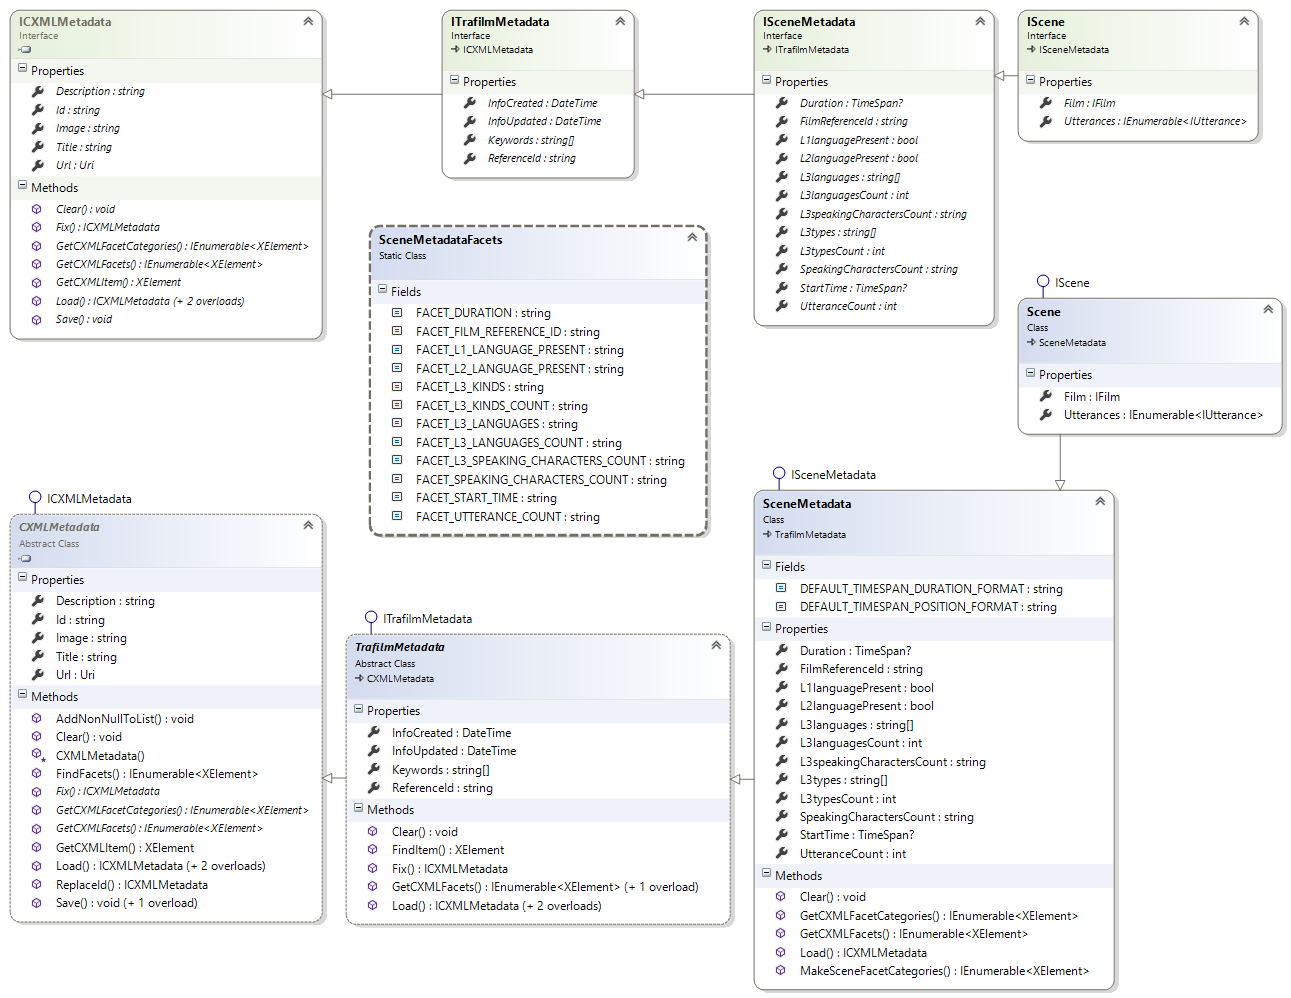
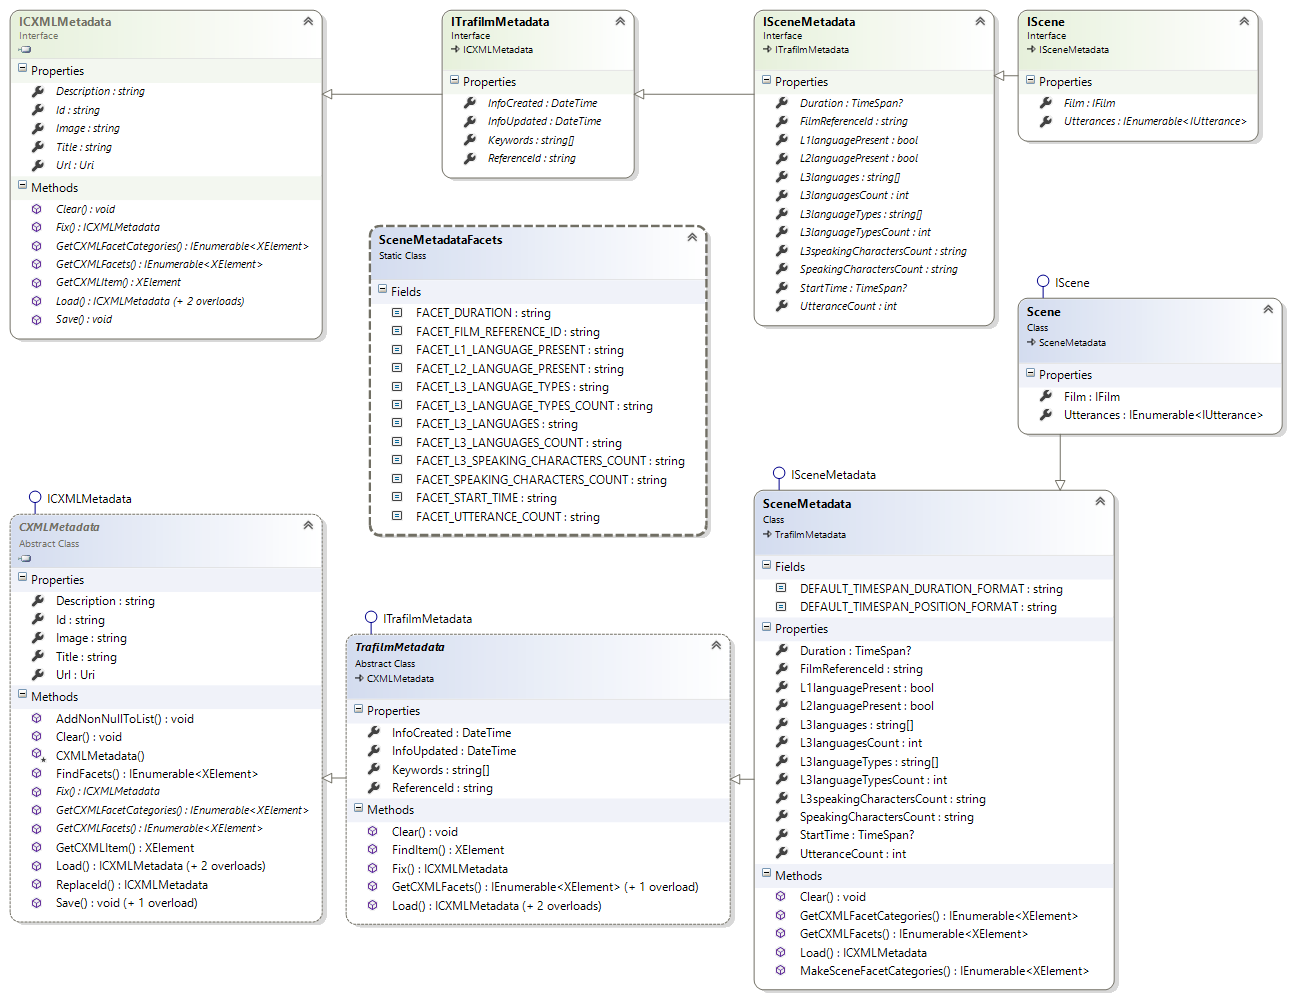
- Updated Scene model/facets/object - Updated Nuget package version - Updated Diagrams

Changed region(s): [[0.6197, 0.1864, 0.7436, 0.2796], [0.6197, 0.7455, 0.7746, 0.8076], [0.3718, 0.3727, 0.4957, 0.4349]]

diff --git a/Metadata/Scene/SceneMetadata.cs b/Metadata/Scene/SceneMetadata.cs
@@ -40,8 +40,8 @@ namespace Trafilm.Metadata
     public int L3languagesCount { get; set; }
     public string[] L3languages { get; set; }
 
-    public int L3typesCount { get; set; }
-    public string[] L3types { get; set; }
+    public int L3languageTypesCount { get; set; }
+    public string[] L3languageTypes { get; set; }
 
     public int UtteranceCount { get; set; }
 
@@ -67,8 +67,8 @@ namespace Trafilm.Metadata
       L3languagesCount = 0;
       L3languages = new string[] { };
 
-      L3typesCount = 0;
-      L3types = new string[] { };
+      L3languageTypesCount = 0;
+      L3languageTypes = new string[] { };
 
       UtteranceCount = 0;
     }
@@ -93,8 +93,8 @@ namespace Trafilm.Metadata
       L3languagesCount = int.Parse(facets.CXMLFacetStringValue(SceneMetadataFacets.FACET_L3_LANGUAGES_COUNT));
       L3languages = facets.CXMLFacetStringValues(SceneMetadataFacets.FACET_L3_LANGUAGES);
 
-      L3typesCount = int.Parse(facets.CXMLFacetStringValue(SceneMetadataFacets.FACET_L3_KINDS_COUNT));
-      L3types = facets.CXMLFacetStringValues(SceneMetadataFacets.FACET_L3_KINDS);
+      L3languageTypesCount = int.Parse(facets.CXMLFacetStringValue(SceneMetadataFacets.FACET_L3_LANGUAGE_TYPES_COUNT));
+      L3languageTypes = facets.CXMLFacetStringValues(SceneMetadataFacets.FACET_L3_LANGUAGE_TYPES);
 
       UtteranceCount = int.Parse(facets.CXMLFacetStringValue(SceneMetadataFacets.FACET_UTTERANCE_COUNT));
 
@@ -127,8 +127,8 @@ namespace Trafilm.Metadata
       AddNonNullToList(facets, CXML.MakeStringFacet(SceneMetadataFacets.FACET_L3_LANGUAGES_COUNT, L3languagesCount.ToString()));
       AddNonNullToList(facets, CXML.MakeStringFacet(SceneMetadataFacets.FACET_L3_LANGUAGES, L3languages));
 
-      AddNonNullToList(facets, CXML.MakeStringFacet(SceneMetadataFacets.FACET_L3_KINDS_COUNT, L3typesCount.ToString()));
-      AddNonNullToList(facets, CXML.MakeStringFacet(SceneMetadataFacets.FACET_L3_KINDS, L3types));
+      AddNonNullToList(facets, CXML.MakeStringFacet(SceneMetadataFacets.FACET_L3_LANGUAGE_TYPES_COUNT, L3languageTypesCount.ToString()));
+      AddNonNullToList(facets, CXML.MakeStringFacet(SceneMetadataFacets.FACET_L3_LANGUAGE_TYPES, L3languageTypes));
 
       AddNonNullToList(facets, CXML.MakeStringFacet(SceneMetadataFacets.FACET_UTTERANCE_COUNT, UtteranceCount.ToString()));
 
@@ -161,8 +161,8 @@ namespace Trafilm.Metadata
       result.Add(CXML.MakeFacetCategory(SceneMetadataFacets.FACET_L3_LANGUAGES_COUNT, CXML.VALUE_STRING, null, isFilterVisible: true, isMetadataVisible: true, isWordWheelVisible: false));
       result.Add(CXML.MakeFacetCategory(SceneMetadataFacets.FACET_L3_LANGUAGES, CXML.VALUE_STRING, null, isFilterVisible: true, isMetadataVisible: true, isWordWheelVisible: true));
 
-      result.Add(CXML.MakeFacetCategory(SceneMetadataFacets.FACET_L3_KINDS_COUNT, CXML.VALUE_STRING, null, isFilterVisible: true, isMetadataVisible: true, isWordWheelVisible: false));
-      result.Add(CXML.MakeFacetCategory(SceneMetadataFacets.FACET_L3_KINDS, CXML.VALUE_STRING, null, isFilterVisible: true, isMetadataVisible: true, isWordWheelVisible: true));
+      result.Add(CXML.MakeFacetCategory(SceneMetadataFacets.FACET_L3_LANGUAGE_TYPES_COUNT, CXML.VALUE_STRING, null, isFilterVisible: true, isMetadataVisible: true, isWordWheelVisible: false));
+      result.Add(CXML.MakeFacetCategory(SceneMetadataFacets.FACET_L3_LANGUAGE_TYPES, CXML.VALUE_STRING, null, isFilterVisible: true, isMetadataVisible: true, isWordWheelVisible: true));
 
       result.Add(CXML.MakeFacetCategory(SceneMetadataFacets.FACET_UTTERANCE_COUNT, CXML.VALUE_STRING, null, isFilterVisible: true, isMetadataVisible: true, isWordWheelVisible: false));
 

diff --git a/Metadata/Scene/SceneMetadataFacets.cs b/Metadata/Scene/SceneMetadataFacets.cs
@@ -23,8 +23,8 @@ namespace Trafilm.Metadata
     public const string FACET_L3_LANGUAGES_COUNT = "L3 languages count";
     public const string FACET_L3_LANGUAGES = "L3/Other languages";
 
-    public const string FACET_L3_KINDS_COUNT = "L3 types count";
-    public const string FACET_L3_KINDS = "L3 types";
+    public const string FACET_L3_LANGUAGE_TYPES_COUNT = "L3 language types count";
+    public const string FACET_L3_LANGUAGE_TYPES = "L3 language types";
 
     public const string FACET_UTTERANCE_COUNT = "Utterance count";
   }

diff --git a/Metadata/Scene/ISceneMetadata.cs b/Metadata/Scene/ISceneMetadata.cs
@@ -28,8 +28,8 @@ namespace Trafilm.Metadata.Models
     int L3languagesCount { get; set; }
     string[] L3languages { get; set; }
 
-    int L3typesCount { get; set; }
-    string[] L3types { get; set; }
+    int L3languageTypesCount { get; set; }
+    string[] L3languageTypes { get; set; }
 
     int UtteranceCount { get; set; }
 
